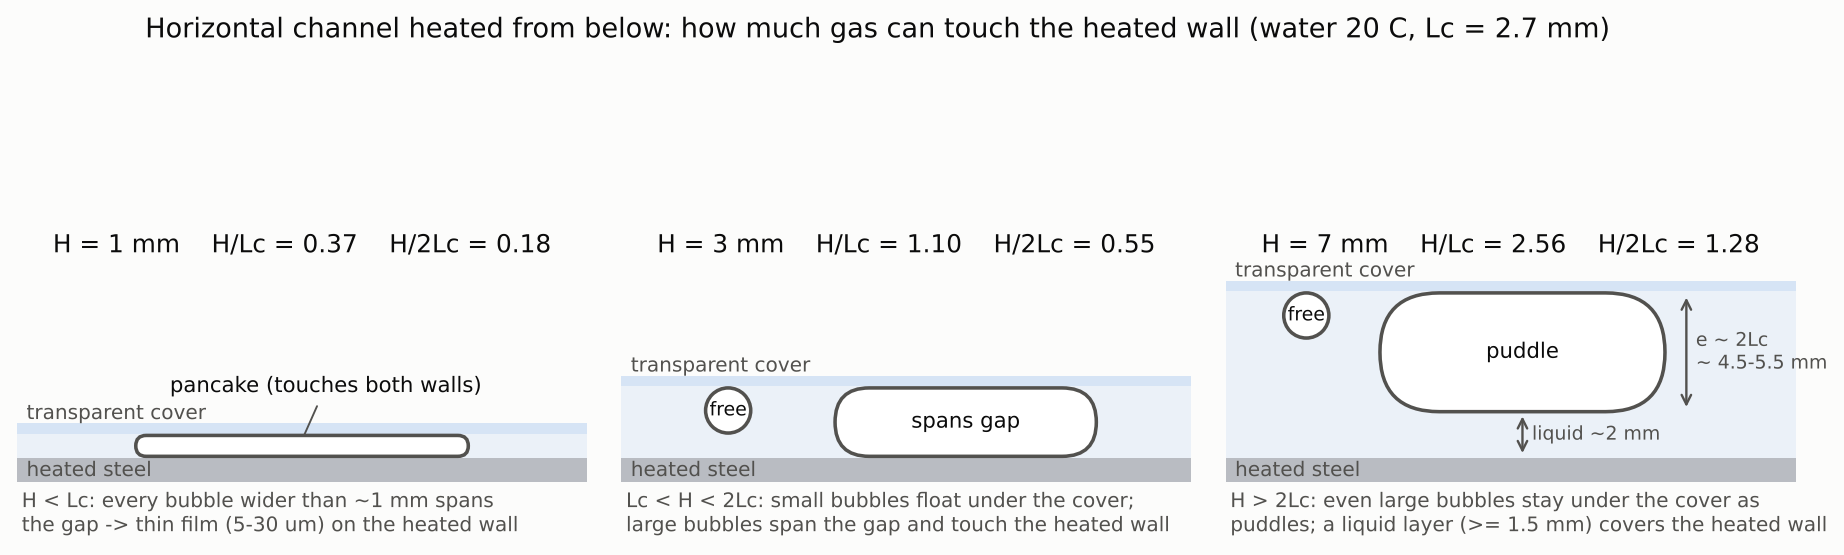
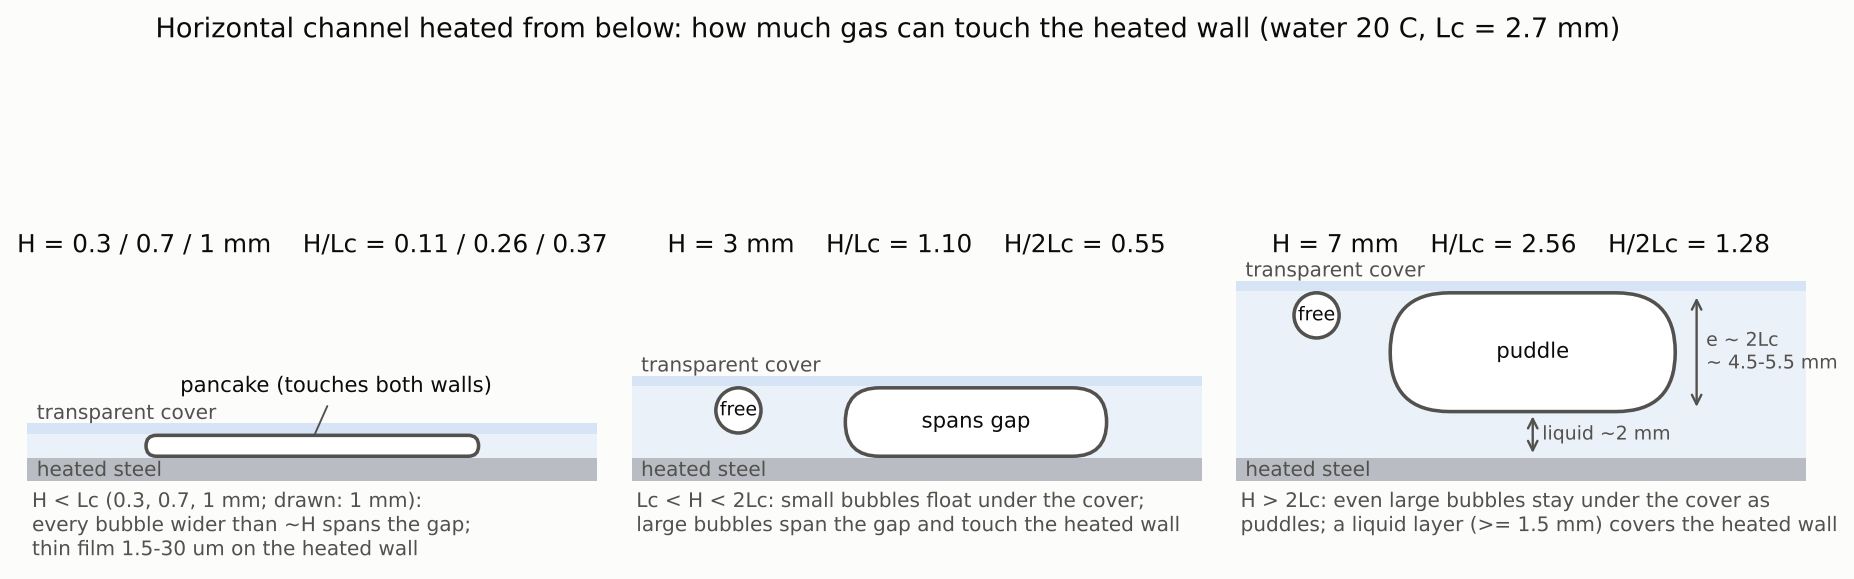
docs: 연구 조사 — 갭 묶음을 0.3/0.7/1/3/7 mm로 확장(사용자 지시): 인계·공통 지침·크기 추정·그림 갱신
1/3/7 mm 값은 그대로 두고 0.3·0.7 mm 행과 13장(작은 갭에서 달라지는 점: 갭 오차, 덮개 처짐, 모델 적합성, 비등 건조)을 더함.

Claude-Session: https://claude.ai/code/session_01QFVWo3BPZ98Eh7jXYmYxkN

diff --git a/docs/research/fig/src/figs.py b/docs/research/fig/src/figs.py
@@ -3,7 +3,7 @@ matplotlib.use("Agg")
 import matplotlib.pyplot as plt
 from matplotlib.patches import FancyBboxPatch, Rectangle, Circle
 OUT="/home/user/bubbles/docs/research/fig/"
-S1,S2,S3="#2a78d6","#eb6834","#1baf7a"   # validated categorical slots 1-3
+S1,S2,S3,S4,S5="#2a78d6","#eb6834","#1baf7a","#eda100","#e87ba4"   # validated categorical slots 1-5 (adjacent pairs)
 INK,INK2,MUTED,GRID,SURF="#0b0b0b","#52514e","#8a8986","#e6e5e1","#fcfcfb"
 plt.rcParams.update({"font.family":"DejaVu Sans","font.size":10,"axes.edgecolor":MUTED,"axes.labelcolor":INK2,
     "xtick.color":INK2,"ytick.color":INK2,"axes.titlecolor":INK,"figure.facecolor":SURF,"axes.facecolor":SURF,
@@ -14,7 +14,7 @@ plt.rcParams.update({"font.family":"DejaVu Sans","font.size":10,"axes.edgecolor"
 fig,axs=plt.subplots(1,3,figsize=(13.5,4.6),gridspec_kw={"wspace":0.06})
 steel="#b9bcc2"; cover="#d6e4f5"; liquid=(42/255,120/255,214/255,0.08); edge=INK2
 Lc=2.73
-info={1:"H < Lc: every bubble wider than ~1 mm spans\nthe gap -> thin film (5-30 um) on the heated wall",
+info={1:"H < Lc (0.3, 0.7, 1 mm; drawn: 1 mm):\nevery bubble wider than ~H spans the gap;\nthin film 1.5-30 um on the heated wall",
       3:"Lc < H < 2Lc: small bubbles float under the cover;\nlarge bubbles span the gap and touch the heated wall",
       7:"H > 2Lc: even large bubbles stay under the cover as\npuddles; a liquid layer (>= 1.5 mm) covers the heated wall"}
 for ax,H in zip(axs,(1,3,7)):
@@ -45,7 +45,8 @@ for ax,H in zip(axs,(1,3,7)):
     ax.set_xlim(0,W); ax.set_ylim(-3.2,8.4); ax.set_aspect("equal")
     ax.set_xticks([]); ax.set_yticks([]); ax.grid(False)
     for s_ in ax.spines.values(): s_.set_visible(False)
-    ax.set_title(f"H = {H} mm    H/Lc = {H/Lc:.2f}    H/2Lc = {H/(2*Lc):.2f}",fontsize=10.5,color=INK,pad=2)
+    ttl={1:"H = 0.3 / 0.7 / 1 mm    H/Lc = 0.11 / 0.26 / 0.37",3:f"H = 3 mm    H/Lc = {3/Lc:.2f}    H/2Lc = {3/(2*Lc):.2f}",7:f"H = 7 mm    H/Lc = {7/Lc:.2f}    H/2Lc = {7/(2*Lc):.2f}"}
+    ax.set_title(ttl[H],fontsize=10.5,color=INK,pad=2)
     ax.text(0.2,-1.35,info[H],fontsize=8.5,color=INK2,va="top")
 fig.suptitle("Horizontal channel heated from below: how much gas can touch the heated wall (water 20 C, Lc = 2.7 mm)",fontsize=11.5,color=INK,y=0.98)
 fig.savefig(OUT+"fig_r1_gap_regimes_horizontal.png",dpi=170,bbox_inches="tight"); plt.close(fig)
@@ -53,8 +54,8 @@ fig.savefig(OUT+"fig_r1_gap_regimes_horizontal.png",dpi=170,bbox_inches="tight")
 # ---------- Fig 2: predicted C0 for pancakes ----------
 X=np.logspace(np.log10(0.05),np.log10(10),300)
 fig,ax=plt.subplots(figsize=(6.6,4.2))
-ax.axvspan(0.14,3.8,color="#000000",alpha=0.04,lw=0)
-ax.text(0.73,0.08,"typical 1-3 mm pancakes\n(d/H 3-30, U 0.05-1 m/s)",fontsize=8.5,color=INK2,ha="center")
+ax.axvspan(0.04,3.8,color="#000000",alpha=0.04,lw=0)
+ax.text(0.40,0.08,"typical pancakes in 0.3-3 mm gaps\n(d/H 3-100, U 0.05-1 m/s)",fontsize=8.5,color=INK2,ha="center")
 for c,col,lab in ((5.0,S1,"clean interface (c = 5)"),(12.6,S2,"rigid interface (c = 12.6)")):
     y=2/(1+0.1785*c*X)
     ax.plot(X,y,color=col,lw=2,label=lab,solid_capstyle="round")
@@ -71,19 +72,19 @@ fig.savefig(OUT+"fig_r2_c0_model.png",dpi=170,bbox_inches="tight"); plt.close(fi
 rho,mu=998.2,1.002e-3
 U=np.logspace(np.log10(0.03),0,200)
 fig,ax=plt.subplots(figsize=(6.6,4.2))
-for H,col in ((1e-3,S1),(3e-3,S2),(7e-3,S3)):
+for H,col in ((0.3e-3,S1),(0.7e-3,S2),(1e-3,S3),(3e-3,S4),(7e-3,S5)):
     Dh=2*H; Re=rho*U*Dh/mu
     lam=12*mu*U/H**2; tur=0.316*Re**-0.25/Dh*rho*U**2/2
     dp=np.where(Re<2300,lam,np.maximum(lam,tur))*0.1
-    ax.plot(U,dp,color=col,lw=2,label=f"friction, H = {H*1e3:.0f} mm")
-    ax.text(1.04,dp[-1],f"H = {H*1e3:.0f} mm",fontsize=8.5,color=INK2,va="center")
+    ax.plot(U,dp,color=col,lw=2,label=f"friction, H = {H*1e3:g} mm")
+    ax.text(1.04,dp[-1],f"H = {H*1e3:g} mm",fontsize=8.5,color=INK2,va="center")
 ax.plot(U,rho*U**2/2,color=MUTED,lw=1.2); ax.text(0.031,rho*0.031**2/2*1.25,"inlet/outlet loss, K = 1",fontsize=8,color=INK2)
 g1=rho*9.81*0.1*math.sin(math.radians(1))
 ax.axhline(g1,color=MUTED,lw=1.2); ax.text(0.031,g1*1.12,"1 deg tilt (hydrostatic)",fontsize=8,color=INK2)
-ax.set_xscale("log"); ax.set_yscale("log"); ax.set_xlim(0.03,1.6); ax.set_ylim(0.3,5000)
+ax.set_xscale("log"); ax.set_yscale("log"); ax.set_xlim(0.03,1.7); ax.set_ylim(0.3,40000)
 ax.set_xlabel("mean velocity U (m/s)"); ax.set_ylabel("pressure difference over 0.1 m (Pa)")
 ax.set_title("Single-phase friction vs. offsets that can hide it (water 20 C)",fontsize=10,color=INK,loc="left")
 ax.text(1.55,0.45,"laminar below Re 2300, Blasius above",fontsize=7.5,color=MUTED,ha="right")
-ax.legend(frameon=False,fontsize=8.5,loc="upper left")
+ax.legend(frameon=False,fontsize=8.5,loc="upper left",ncol=2)
 fig.savefig(OUT+"fig_r3_dp_magnitudes.png",dpi=170,bbox_inches="tight"); plt.close(fig)
 print("ok")

diff --git a/docs/research/fig/src/est.py b/docs/research/fig/src/est.py
@@ -3,14 +3,14 @@ g=9.81
 # water 20C / air, saturated water 100C (standard property tables)
 W20=dict(rho=998.2,mu=1.002e-3,sigma=0.0728,k=0.598,cp=4182,rhog=1.204)
 W100=dict(rho=958.4,mu=2.82e-4,sigma=0.0589,k=0.679,cp=4216,rhog=0.598,hfg=2.257e6)
-Hs=[1e-3,3e-3,7e-3]
+Hs=[0.3e-3,0.7e-3,1e-3,3e-3,7e-3]
 def Lc(P): return math.sqrt(P['sigma']/(g*(P['rho']-P['rhog'])))
 print("## A. 길이 척도")
 for name,P in [('물 20C',W20),('포화수 100C',W100)]:
     L=Lc(P)
     print(f"{name}: Lc={L*1e3:.2f} mm, 2Lc={2*L*1e3:.2f} mm")
     for H in Hs:
-        print(f"  H={H*1e3:.0f} mm: Co=Lc/H={L/H:.2f}, Co(Dh=2H)={L/(2*H):.2f}, Bo=(H/Lc)^2={(H/L)**2:.2f}")
+        print(f"  H={H*1e3:g} mm: Co=Lc/H={L/H:.2f}, Co(Dh=2H)={L/(2*H):.2f}, Bo=(H/Lc)^2={(H/L)**2:.2f}")
 P=W20
 print("\n## B. 단상 흐름(물 20C), U=평균 속도")
 Us=[0.05,0.1,0.2,0.5,1.0]
@@ -21,7 +21,7 @@ for H in Hs:
         Ca=P['mu']*U/P['sigma']; We=P['rho']*U**2*H/P['sigma']
         lam=12*P['mu']*U/H**2
         f=0.316*Re**-0.25; tur=f/Dh*P['rho']*U**2/2
-        print(f"| {H*1e3:.0f} | {U} | {Re:.0f} | {ReH:.0f} | {Ca:.2e} | {We:.2f} | {lam:.0f} | {tur:.0f} |")
+        print(f"| {H*1e3:g} | {U} | {Re:.0f} | {ReH:.0f} | {Ca:.2e} | {We:.2f} | {lam:.0f} | {tur:.0f} |")
 print("\n## C. 갇힌 기포 밑 액막 두께(Aussillous-Quere, b=H/2), um")
 print("| H mm | " + " | ".join(f"U={U}" for U in Us)+" |")
 for H in Hs:
@@ -30,11 +30,13 @@ for H in Hs:
         Ca=P['mu']*U/P['sigma']; c=Ca**(2/3)
         h=1.34*c/(1+2.5*1.34*c)*b
         row.append(f"{h*1e6:.1f}")
-    print(f"| {H*1e3:.0f} | "+" | ".join(row)+" |")
+    print(f"| {H*1e3:g} | "+" | ".join(row)+" |")
 # boiling film
 Q=W100
-print("\n## C2. 포화수 100C, 1 mm 갭 액막(Bretherton 0.643 b (3Ca)^(2/3))과 건조 시간 t=rho hfg d0/q")
-for V in [0.1,0.3,1.0]:
-    Ca=Q['mu']*V/Q['sigma']; d0=0.643*0.5e-3*(3*Ca)**(2/3)
-    ts=[Q['rho']*Q['hfg']*d0/q*1e3 for q in (1e4,5e4,1e5)]
-    print(f"V={V}: Ca={Ca:.2e}, d0={d0*1e6:.1f} um, t_dry(10/50/100 kW/m2)= {ts[0]:.2f}/{ts[1]:.2f}/{ts[2]:.2f} ms, passage of 5 mm bubble={5e-3/V*1e3:.0f} ms, h_film=k/d0={Q['k']/d0:.0f} W/m2K")
+print("\n## C2. 포화수 100C, 갭별 액막(Bretherton 0.643 b (3Ca)^(2/3), b=H/2)과 건조 시간 t=rho hfg d0/q")
+print("| H mm | V m/s | d0 um | h_film=k/d0 W/m2K | t_dry 10/50/100 kW/m2 (ms) | 5 mm 기포 통과 (ms) |")
+for H in (0.3e-3,0.7e-3,1e-3,3e-3):
+    for V in (0.1,0.3,1.0):
+        Ca=Q['mu']*V/Q['sigma']; d0=0.643*(H/2)*(3*Ca)**(2/3)
+        ts=[Q['rho']*Q['hfg']*d0/q*1e3 for q in (1e4,5e4,1e5)]
+        print(f"| {H*1e3:g} | {V} | {d0*1e6:.1f} | {Q['k']/d0:.0f} | {ts[0]:.0f} / {ts[1]:.0f} / {ts[2]:.0f} | {5e-3/V*1e3:.0f} |")

diff --git a/docs/research/fig/src/ht.py b/docs/research/fig/src/ht.py
@@ -2,19 +2,19 @@ import math
 k=0.598; rho=998.2; cp=4182; mu=1.002e-3; aL=k/(rho*cp); Pr=mu*cp/k
 print(f"water 20C alpha={aL:.3e} Pr={Pr:.2f}")
 print("## 단상 층류 완전발달, 한쪽 벽 가열·반대쪽 단열 Nu_Dh=5.385")
-for H in (1e-3,3e-3,7e-3):
-    print(f"H={H*1e3:.0f} mm: h={5.385*k/(2*H):.0f} W/m2K")
+for H in (0.3e-3,0.7e-3,1e-3,3e-3,7e-3):
+    print(f"H={H*1e3:g} mm: h={5.385*k/(2*H):.0f} W/m2K")
 print("## 열 입구 길이 0.05 Re Pr Dh (m)")
-for H in (1e-3,3e-3,7e-3):
-    print(f"H={H*1e3:.0f}: "+", ".join(f"U={U}: {0.05*rho*U*2*H/mu*Pr*2*H:.2f}" for U in (0.05,0.1,0.2)))
+for H in (0.3e-3,0.7e-3,1e-3,3e-3,7e-3):
+    print(f"H={H*1e3:g}: "+", ".join(f"U={U}: {0.05*rho*U*2*H/mu*Pr*2*H:.2f}" for U in (0.05,0.1,0.2)))
 print("## Gnielinski (Dh=2H, 양쪽 가열 원관식 그대로, 참고)")
 for H in (3e-3,7e-3):
     for U in (0.5,1.0):
         Re=rho*U*2*H/mu
-        if Re<3000: print(f"H={H*1e3:.0f} U={U}: Re={Re:.0f} (전이)"); continue
+        if Re<3000: print(f"H={H*1e3:g} U={U}: Re={Re:.0f} (전이)"); continue
         f=(0.79*math.log(Re)-1.64)**-2
         Nu=(f/8)*(Re-1000)*Pr/(1+12.7*math.sqrt(f/8)*(Pr**(2/3)-1))
-        print(f"H={H*1e3:.0f} U={U}: Re={Re:.0f} Nu={Nu:.0f} h={Nu*k/(2*H):.0f}")
+        print(f"H={H*1e3:g} U={U}: Re={Re:.0f} Nu={Nu:.0f} h={Nu*k/(2*H):.0f}")
 print("## 표면 갱신 상한 h=2k/sqrt(pi alpha t_c), t_c=1/f")
 for f in (2,5,10,20,50):
     print(f"f={f} Hz: h={2*k/math.sqrt(math.pi*aL/f):.0f} W/m2K, 침투 sqrt(pi a t)={math.sqrt(math.pi*aL/f)*1e3:.2f} mm")
@@ -41,12 +41,12 @@ print("## 1D 외삽: dT between TCs = q dz/k (dz=5 mm)")
 for name,kk in (('탄소강',50),('스테인리스',14.9),('구리',401)):
     print(name, ", ".join(f"q={q/1e3:.0f}kW/m2: {q*5e-3/kk:.2f} K" for q in (1e4,5e4,1e5)))
 print("## 투영 → 부피 기공률 비 (팬케이크: 1 - 0.429 H/d - 2delta/H; 구: 2d/(3H))")
-for H in (1e-3,3e-3):
+for H in (0.3e-3,0.7e-3,1e-3,3e-3):
     for dH in (1.5,3,10,30):
-        print(f"H={H*1e3:.0f} d/H={dH}: pancake ratio={1-0.429/dH-2*10e-6/H:.2f}")
+        print(f"H={H*1e3:g} d/H={dH}: pancake ratio={1-0.429/dH-2*10e-6/H:.2f}")
 for H in (3e-3,7e-3):
     for d in (1e-3,2e-3,3e-3):
-        if d<=H: print(f"H={H*1e3:.0f} sphere d={d*1e3:.0f} mm: ratio={2*d/(3*H):.2f}")
+        if d<=H: print(f"H={H*1e3:g} sphere d={d*1e3:.0f} mm: ratio={2*d/(3*H):.2f}")
 print("puddle in 7 mm, e=4.5-5.5 mm: ratio ~", round(4.5/7*0.95,2),"-",round(5.5/7*0.95,2))
 print("## 압력: 입출구 손실 K rho U^2/2 (K=1), 1도 기울기 중력 rho g L sin(1deg), L=0.1 m")
 for U in (0.05,0.1,0.2,0.5,1.0):

diff --git a/docs/research/fig/src/menisc.py b/docs/research/fig/src/menisc.py
@@ -19,19 +19,19 @@ def terms(j,H,d,alpha,ctot):
 for ctot,lab in [(5.0,'clean c=5'),(12.6,'rigid c=12.6')]:
     print(f"\n### {lab}")
     print("| H mm | d/H | alpha | j m/s | V/j(=C0) | dP_b Pa/m | dP_L Pa/m | R=dP_b/dP_L | j_G | j_L |")
-    for H in (1e-3,3e-3):
+    for H in (0.3e-3,0.7e-3,1e-3,3e-3):
         for dH in (3,10,30):
             for alpha in (0.1,0.3):
                 for j in (0.05,0.2,1.0):
                     r,b,L,jG,jL=terms(j,H,dH*H,alpha,ctot)
-                    print(f"| {H*1e3:.0f} | {dH} | {alpha} | {j} | {r:.2f} | {b:.0f} | {L:.0f} | {b/L:.2f} | {jG:.3f} | {jL:.3f} |")
+                    print(f"| {H*1e3:g} | {dH} | {alpha} | {j} | {r:.2f} | {b:.0f} | {L:.0f} | {b/L:.2f} | {jG:.3f} | {jL:.3f} |")
 print("\n### C0 = V/j vs X=(H/d)Ca^(-1/3): C0 = 2/(1+beta X), beta=0.1785 c")
 for ctot in (5.0,12.6):
     beta=0.1785*ctot
     print(f"c={ctot}: beta={beta:.2f}; X where C0=1: {1/beta:.2f}; C0 at X=0.1,0.3,1,3: "+", ".join(f"{2/(1+beta*X):.2f}" for X in (0.1,0.3,1,3)))
 # Re*: reduced Reynolds for Darcy validity
 print("\n### Darcy 가정 점검: Re_H*(H/d) (작아야 함)")
-for H in (1e-3,3e-3):
+for H in (0.3e-3,0.7e-3,1e-3,3e-3):
     for j in (0.05,0.2,1.0):
         ReH=rho*j*H/mu
-        print(f"H={H*1e3:.0f} mm j={j}: Re_H={ReH:.0f}; d/H=3 -> {ReH/3:.0f}; d/H=30 -> {ReH/30:.1f}")
+        print(f"H={H*1e3:g} mm j={j}: Re_H={ReH:.0f}; d/H=3 -> {ReH/3:.0f}; d/H=30 -> {ReH/30:.1f}")

diff --git a/docs/research/agent_brief.md b/docs/research/agent_brief.md
@@ -14,7 +14,11 @@
 - U-Net 학습·추론 금지. git commit/push 금지(메인 세션이 한다). 다른 에이전트의 파일을 고치지 않는다.
 
 ## 1. 연구 배경 (요약)
-- 사용자 연구: 높이 H = 1, 3, 7 mm 마이크로갭(넓고 납작한 직사각 유로)의 성능 비교. 액체는 물로 보인다.
+- **범위 변경 (2026-10-23 사용자 지시)**: 갭 높이 H = **0.3, 0.7, 1, 3, 7 mm** 다섯 가지. 1/3/7 mm는 그대로 두고 0.3·0.7 mm를 더한다.
+  - 사용자는 0.3·0.7 mm에서 이미 **단열 실험**(가열 없음, 공기-물로 추정)을 했다. 가열 실험도 같은 갭 묶음으로 하려 한다.
+  - 0.3·0.7 mm: Co = Lc/H ≈ 9.1, 3.9(강한 갇힘), Re_Dh ≈ 30~1400(층류), 층류 dP/dx = 12μU/H²가 0.3 mm에서 6.7~133 kPa/m(0.05~1 m/s).
+  - 그래서 0.1~1 mm 마이크로갭·미니채널·Hele-Shaw 문헌의 비중이 커진다. 표의 관련성 열은 "0.3/0.7/1/3/7 mm 연구와의 관련성"으로 본다.
+- 사용자 연구: 높이별 마이크로갭(넓고 납작한 직사각 유로)의 성능 비교. 액체는 물로 보인다.
 - 측정: 히터(열유속), 철 블록에 묻은 열전대(벽 온도 → 열전달계수 h), 압력계(압력 강하 ΔP), 고속 카메라.
 - 카메라는 투명 덮개 너머로 불투명한 철 바닥을 내려다본다(1920×1200 px, 화소당 mm는 모름).
   - 기포 내부가 액체보다 25~45 계조 어둡고, 테두리는 밝다(폭 20~25 px 밝은 띠). 원인은 모름.
@@ -22,13 +26,13 @@
 - 영상 파이프라인(U-Net 검출 + 헝가리안 추적)이 기포별로 면적, 등가직경, 개수, 속도, 크기 구분, 합체·분열 이벤트를 낸다.
   - 여기서 투영 기공률, 기포 수 밀도, 크기 분포, 통과 빈도, 계면(둘레) 길이 밀도, 기포·슬러그 길이, C0 = u_B / j를 만들 수 있다.
   - 자동 품질 점검(QC)과 사람이 표본을 판정하는 연결 감사 도구가 있다(검출·추적 오차를 추정 가능).
-- 물의 모세관 길이 Lc ≈ 2.5~2.7 mm. Co = Lc/H ≈ 2.7, 0.9, 0.39 → 세 갭이 갇힘 → 전이 → 자유 영역을 가로지른다.
+- 물의 모세관 길이 Lc ≈ 2.5~2.7 mm. Co = Lc/H ≈ 9.1, 3.9, 2.7, 0.9, 0.39(0.3/0.7/1/3/7 mm) → 다섯 갭이 강한 갇힘 → 갇힘 → 전이 → 자유 영역을 가로지른다. 위 벽 밑 큰 기포(웅덩이) 두께 ≈ 2Lc ≈ 5 mm도 3 mm와 7 mm 사이에 있다(`estimates_microgap.md`).
 - 모르는 것: 기포가 공기 주입인지 비등인지 / 채널 방향(수평 + 아래 가열 + 위 투명 덮개일 가능성이 높음) /
   유량·열유속 범위, 압력 탭·열전대 배치. → 조사 결과는 "공기 주입이면 / 비등이면", "수평이면 / 수직이면"으로 나눠 쓴다.
 
 ## 2. 검증할 가설 (이전 세션이 세움)
-1. 갇힘 틀: 세 갭이 Lc를 사이에 둔다는 점을 논문 줄기로. D_h 기반 상관식이 놓치는 갇힘을 영상 지표(갇힌 기포 비율 = 등가직경 > 2H 또는 > H인 기포의 기체 면적 비율)로 정량화.
-2. 압력 강하: 갇힌 기포가 벽 위를 미끄러질 때의 메니스커스 마찰(Bretherton·Cantat의 σCa^(2/3))에 영상으로 잰 계면 길이 밀도를 곱한 항. 1 mm에서 크고 7 mm에서 작을 것.
+1. 갇힘 틀: 갭들이 Lc(와 2Lc)를 사이에 둔다는 점을 논문 줄기로. D_h 기반 상관식이 놓치는 갇힘을 영상 지표(갇힌 기포 비율 = 등가직경 > 2H 또는 > H인 기포의 기체 면적 비율)로 정량화.
+2. 압력 강하: 갇힌 기포가 벽 위를 미끄러질 때의 메니스커스 마찰(Bretherton·Cantat의 σCa^(2/3))에 영상으로 잰 계면 길이 밀도를 곱한 항. 0.3~1 mm에서 크고 7 mm에는 없을 것.
 3. 열전달: 수평 + 아래 가열이면 "가열면을 덮는 기포/액막 비율"(영상)이 h 변화의 핵심 변수일 수 있다.
    비등이면 3구역 모델의 기포 빈도를 측정값으로 대체, 공기 주입이면 슬러그 길이 기반 Taylor 흐름 모델이나 표면 갱신 모델.
 4. 추적 결과 활용: 합체·분열 빈도, 크기별 드리프트 플럭스(크기별 C0, Vgj).

diff --git a/docs/research/lit_1_adiabatic_gap.md b/docs/research/lit_1_adiabatic_gap.md
@@ -1,0 +1,13 @@
+# 주제 1: 좁은 직사각 유로·얇은 갭의 단열 기액 이상류 (갭 0.3~10 mm)
+
+작성: 2026-10-23, 문헌 조사 에이전트 1. 초안(작성 중).
+확인 수준: `C+F` Crossref + 전문, `C+A` Crossref + 초록, `C` Crossref만(내용은 2차 자료), `U` 미대조. 공통 지침 4장을 따른다.
+물성(직접 계산, 20 °C 물-공기): σ = 0.072 N/m, Lc = √(σ/ρg) ≈ 2.7 mm.
+
+## 1. 문헌 표 (작성 중)
+
+### 1-A. 갭 크기를 바꾼 단열 실험 (유동 양식·기공률·마찰)
+
+| # | 저자(연도) | 제목 | 학술지 권(호):쪽 | DOI | 조건 | 핵심 결과(숫자) | 1/3/7 mm 연구와의 관련성 | 확인 수준 |
+|---|---|---|---|---|---|---|---|---|
+| A1 | Mishima, Hibiki, Nishihara (1993) | Some characteristics of gas-liquid flow in narrow rectangular ducts | Int. J. Multiphase Flow 19(1):115-124 | 10.1016/0301-9322(93)90027-r | 수직 상향, 공기-물, 폭 40 mm, 갭 약 1.0/2.4/5.0 mm(2차 인용), 중성자 투과 영상으로 기공률 | Scholar 초록 조각: 기공률은 "기존 분포 계수 상관식(약 1.35)"과 맞음, 슬러그 기포 속도도 비슷(검색 요약 기준). 2차 문헌의 C0 값은 1.1(Bhusan 2009), 1.2 부근(Sowiński 2009)으로 엇갈림 | 1/3/7 mm에 가장 가까운 갭 비교. 수직이라 방향이 다를 수 있음 | C |

diff --git a/docs/research/HANDOFF.md b/docs/research/HANDOFF.md
@@ -1,4 +1,7 @@
-# 연구 인계: 마이크로갭(1·3·7 mm) 논문 방향 + 유사 논문 조사
+# 연구 인계: 마이크로갭(0.3·0.7·1·3·7 mm) 논문 방향 + 유사 논문 조사
+
+> **범위 변경 (2026-10-23, 사용자 지시)**: 갭 높이는 **0.3, 0.7, 1, 3, 7 mm** 다섯 가지다. 1/3/7 mm 값은 버리지 않고 0.3·0.7 mm를 더한다.
+> 사용자는 0.3·0.7 mm에서 이미 단열 실험을 했고, 가열 실험도 같은 갭 묶음으로 하려 한다. 아래 본문의 "1/3/7 mm"는 다섯 갭으로 읽는다.
 
 이 문서는 이전 세션(2026-10-23)에서 넘겨받는 작업 지시서다. 이전 세션은 네트워크 정책 때문에 논문 DB(Crossref·OpenAlex·Semantic Scholar·Google Scholar)에 접속하지 못했다. 사용자가 환경의 Network access를 "모든 도메인 허용"으로 바꿨고, 새 세션에서는 접속될 것으로 보고 조사를 이쪽으로 옮겼다. **시작하면 먼저 아래 주소로 접속되는지 확인한다.**
 

diff --git a/docs/research/lit_5_ai_image.md b/docs/research/lit_5_ai_image.md
@@ -1,0 +1,11 @@
+# 주제 5: AI 영상 분석과 데이터 기반 예측 (작성 중, 2026-10-23)
+
+> 중간 저장본이다. 범위: 갭 0.3/0.7/1/3/7 mm. 표와 답은 아래에서 계속 채운다.
+
+## 0. 요약 (초안)
+- 영상에서 뽑은 기포 통계로 측정 h를 보정한 가장 가까운 선행 연구는 Huang et al. 2024 IJMF다(미소중력 흐름 비등, ML로 뽑은 기공률·젖음 전선 면적 → HTC 상관식 개선). 갭 높이를 바꾼 연구는 아니다.
+- 영상 통계 → ΔP를 AI로 연결한 연구는 찾지 못했다(검색 기록 4장).
+- 검출·분할 오차가 물리량으로 전파되는 양은 합성 영상으로만 일부 정량화됐다(Hessenkemper 2022: 기공률 오차 약 12%).
+
+## 4. 새로움 판단 기록 (진행 중)
+- 검색 기록 원본: 작업 폴더 search_log.md. 최종본에서 표로 옮긴다.
